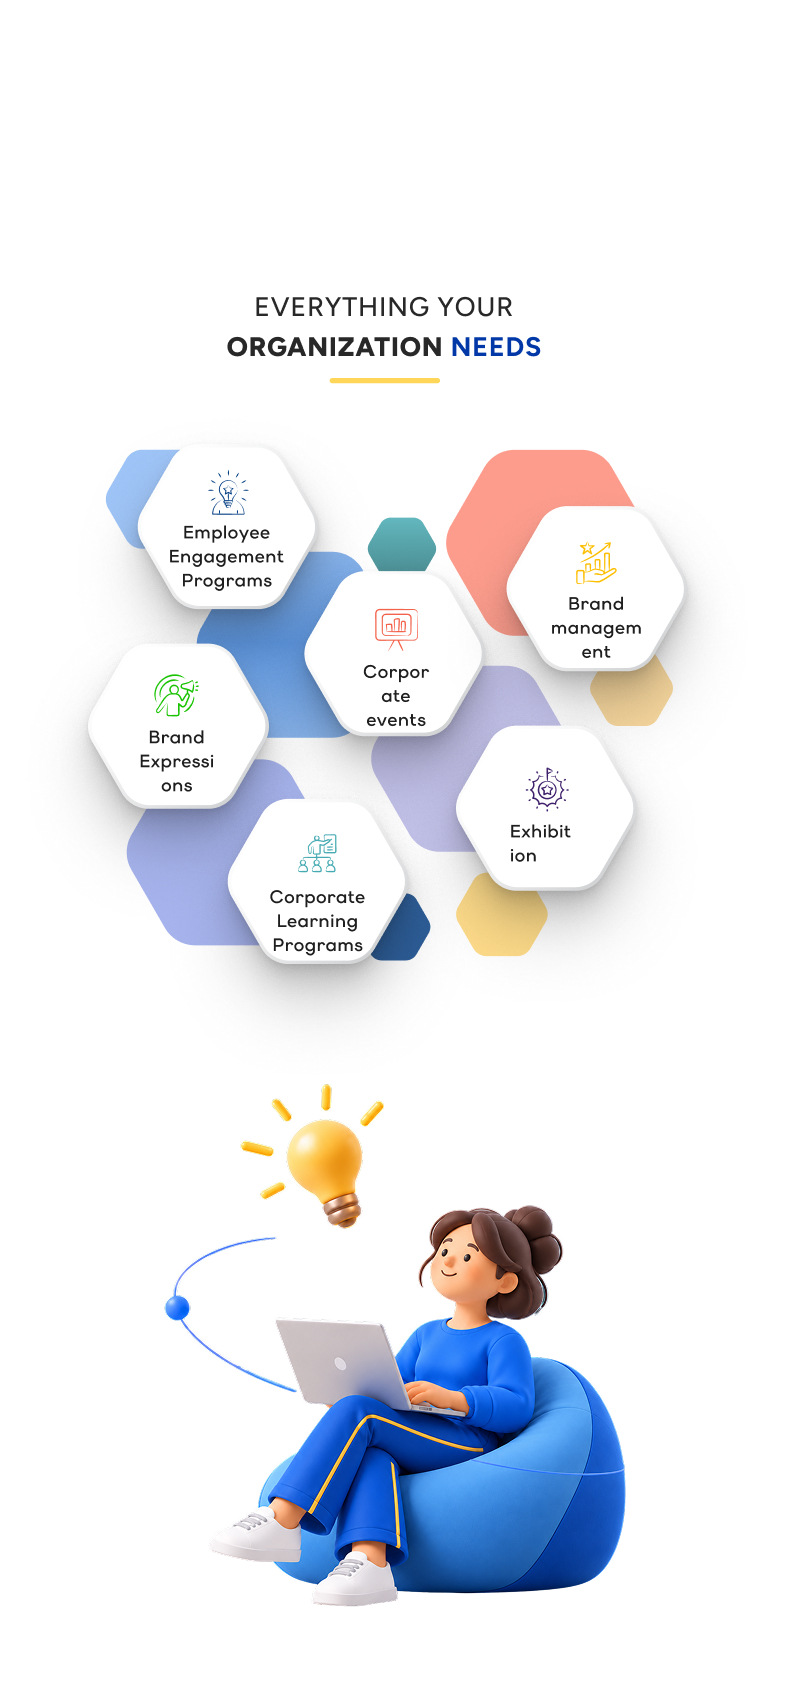
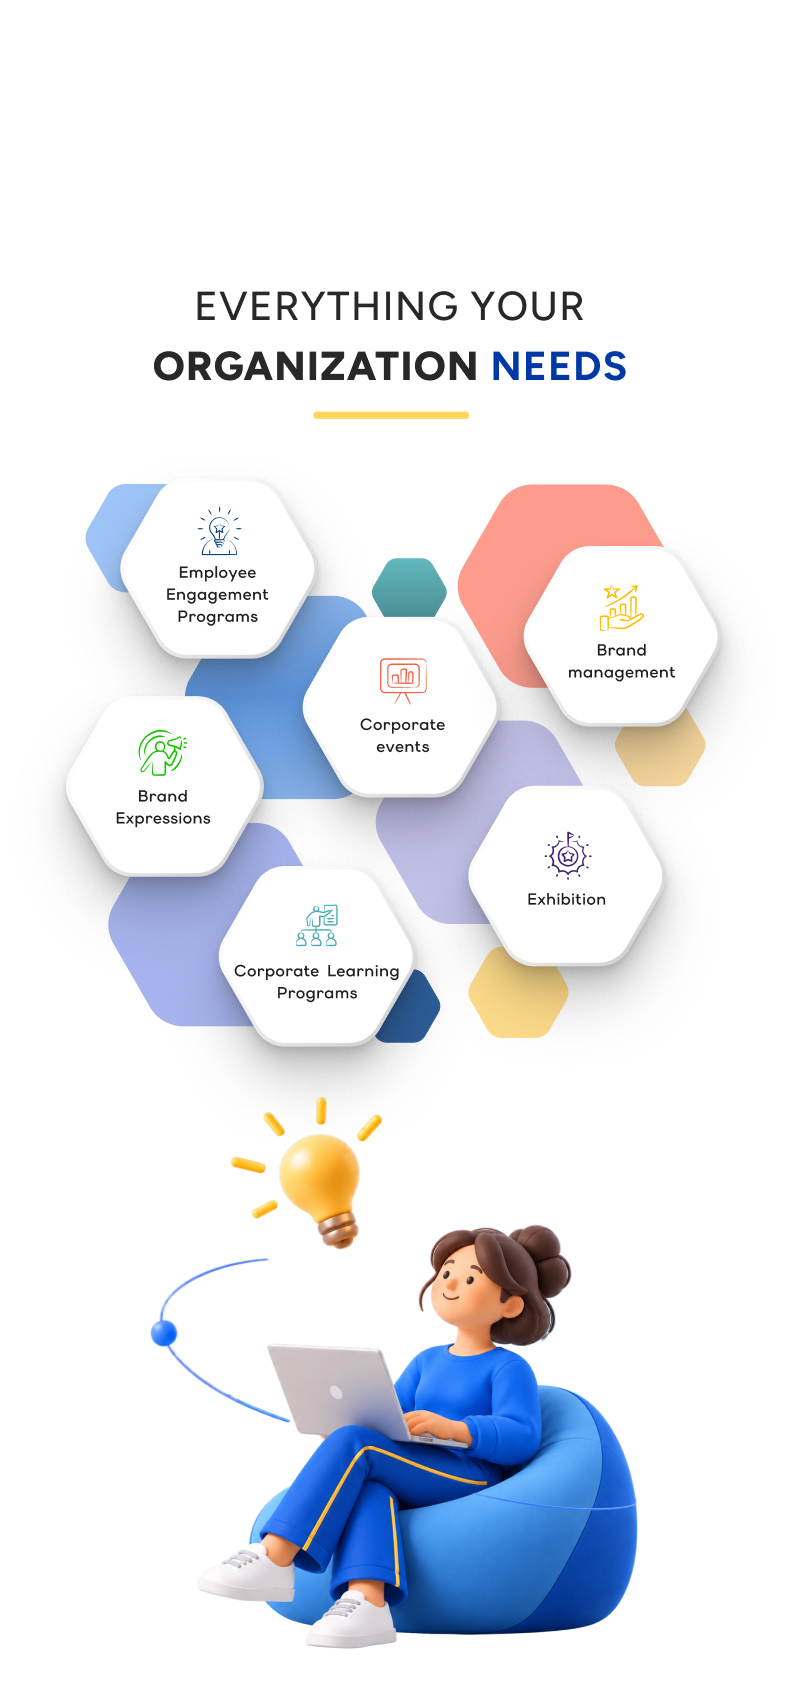
update video section

Changed region(s): [[0.0611, 0.1555, 0.916, 0.7465], [0.2748, 0.6843, 0.8244, 0.9953], [0.1832, 0.7465, 0.2443, 0.8087]]

diff --git a/components/layout/HeroVideo.tsx b/components/layout/HeroVideo.tsx
@@ -1,75 +1,114 @@
 "use client";
 
-import { useEffect, useLayoutEffect, useRef, useState } from "react";
+import {
+  useEffect,
+  useLayoutEffect,
+  useRef,
+  useState,
+  type ReactNode,
+} from "react";
 import { AnimatePresence, motion } from "framer-motion";
-import { type ReactNode } from "react"; // add to your imports
+
 type HeroVideoProps = {
   desktopVideo: string;
   mobileVideo?: string;
   poster?: string;
-   mobilePoster?: string; // NEW
-    header?: ReactNode;     
-  onShow?: () => void;  
+  mobilePoster?: string;
+  header?: ReactNode; // header shown over the video
+  onShow?: () => void; // tells Home that video mode started
 };
 
 export default function HeroVideo({
   desktopVideo,
   mobileVideo,
   poster,
-   mobilePoster,
-    header,
+  mobilePoster,
+  header,
   onShow,
 }: HeroVideoProps) {
   const sectionRef = useRef<HTMLElement>(null);
   const videoRef = useRef<HTMLVideoElement>(null);
   const lastY = useRef(0);
-  
+  const insertedAtTop = useRef(false);
+
   const [showVideo, setShowVideo] = useState(false); // false on first load
   const [playing, setPlaying] = useState(false);
-  const [isMobile, setIsMobile] = useState(false);
-  /* NEW: detect mobile and preload the thumbnail so it shows instantly */
   const [posterVisible, setPosterVisible] = useState(true);
-+/* Pause and rewind when the video leaves the screen */
-useEffect(() => {
-  const el = sectionRef.current;
-  if (!showVideo || !el) return;
-  const observer = new IntersectionObserver(([entry]) => {
-    if (!entry.isIntersecting && videoRef.current) {
-      videoRef.current.pause();
-      videoRef.current.currentTime = 0;
-      setPosterVisible(true); // ADD THIS LINE
-    }
-  });
-  observer.observe(el);
-  return () => observer.disconnect();
-}, [showVideo]);
-  useEffect(() => {
-    const mobile = window.matchMedia("(max-width: 767px)").matches;
-    setIsMobile(mobile);
 
-    const img = new window.Image();
-    img.src = mobile ? mobilePoster ?? poster ?? "" : poster ?? "";
+  /* Preload thumbnails so they show instantly */
+  useEffect(() => {
+    [poster, mobilePoster].forEach((src) => {
+      if (!src) return;
+      const img = new window.Image();
+      img.src = src;
+    });
   }, [poster, mobilePoster]);
-  /* Once the user has scrolled one screen down, add the video at the top */
+
+  /* Add the video when:
+     (a) user scrolled one screen down, or
+     (b) user is at the top and scrolls up (right after the intro) */
   useEffect(() => {
     if (showVideo) return;
+
+    // the intro overlay locks body scroll while it is visible
+    const introActive = () => document.body.style.overflow === "hidden";
+
+    const reveal = (atTop: boolean) => {
+      insertedAtTop.current = atTop;
+      lastY.current = window.scrollY;
+      setShowVideo(true);
+    };
+
     const onScroll = () => {
       lastY.current = window.scrollY;
-      if (window.scrollY > window.innerHeight) setShowVideo(true);
+      if (window.scrollY > window.innerHeight) reveal(false);
     };
+
+    const onWheel = (e: WheelEvent) => {
+      if (introActive()) return;
+      if (window.scrollY <= 0 && e.deltaY < -4) reveal(true);
+    };
+
+    let touchY = 0;
+    const onTouchStart = (e: TouchEvent) => {
+      touchY = e.touches[0].clientY;
+    };
+    const onTouchMove = (e: TouchEvent) => {
+      if (introActive()) return;
+      if (window.scrollY <= 0 && e.touches[0].clientY - touchY > 20)
+        reveal(true);
+    };
+
+    const onKey = (e: KeyboardEvent) => {
+      if (introActive()) return;
+      if (window.scrollY <= 0 && ["ArrowUp", "PageUp"].includes(e.key))
+        reveal(true);
+    };
+
     window.addEventListener("scroll", onScroll, { passive: true });
-    return () => window.removeEventListener("scroll", onScroll);
+    window.addEventListener("wheel", onWheel, { passive: true });
+    window.addEventListener("touchstart", onTouchStart, { passive: true });
+    window.addEventListener("touchmove", onTouchMove, { passive: true });
+    window.addEventListener("keydown", onKey);
+    return () => {
+      window.removeEventListener("scroll", onScroll);
+      window.removeEventListener("wheel", onWheel);
+      window.removeEventListener("touchstart", onTouchStart);
+      window.removeEventListener("touchmove", onTouchMove);
+      window.removeEventListener("keydown", onKey);
+    };
   }, [showVideo]);
 
   /* Keep the user's view in place when the video is inserted above them */
   useLayoutEffect(() => {
     if (!showVideo || !sectionRef.current) return;
+    if (insertedAtTop.current) return; // added at top: user should see the video
     const h = sectionRef.current.offsetHeight;
     const alreadyShifted = window.scrollY - lastY.current; // some browsers auto-adjust
     window.scrollBy({ top: h - alreadyShifted, behavior: "instant" });
   }, [showVideo]);
 
-  /* Pause and rewind when the video leaves the screen */
+  /* Pause, rewind and show the thumbnail when the video leaves the screen */
   useEffect(() => {
     const el = sectionRef.current;
     if (!showVideo || !el) return;
@@ -77,70 +116,81 @@ useEffect(() => {
       if (!entry.isIntersecting && videoRef.current) {
         videoRef.current.pause();
         videoRef.current.currentTime = 0;
+        setPosterVisible(true);
       }
     });
     observer.observe(el);
     return () => observer.disconnect();
   }, [showVideo]);
 
+  /* Tell Home once, when video mode starts */
+  const onShowRef = useRef(onShow);
+  useEffect(() => {
+    onShowRef.current = onShow;
+  });
 
-const onShowRef = useRef(onShow);
-useEffect(() => {
-  onShowRef.current = onShow;
-});
-
-useEffect(() => {
-  if (showVideo) onShowRef.current?.();
-}, [showVideo]);
+  useEffect(() => {
+    if (showVideo) onShowRef.current?.();
+  }, [showVideo]);
 
   if (!showVideo) return null;
 
   return (
-    <section
-      ref={sectionRef}
-      className="relative h-[100vh] w-full overflow-hidden  bg-black"
-    >
-<video
-  ref={videoRef}
-  playsInline
-  preload="metadata"
-  onPlay={() => setPlaying(true)}
-  onPlaying={() => setPosterVisible(false)}  // hide thumbnail when video really starts
-  onPause={() => setPlaying(false)}
-  onEnded={() => {
-    setPlaying(false);
-    setPosterVisible(true);                  // thumbnail comes back after end
-  }}
-  onClick={playing ? () => videoRef.current?.pause() : undefined}
-  className="absolute inset-0 h-full w-full object-cover"
->
-  {mobileVideo && (
-    <source src={mobileVideo} media="(max-width: 767px)" type="video/mp4" />
-  )}
-  <source src={desktopVideo} type="video/mp4" />
-</video>
+     <motion.section
+    ref={sectionRef}
+    initial={insertedAtTop.current ? { height: 0, opacity: 0 } : false}
+    animate={{ height: "100vh", opacity: 1 }}
+    transition={{ duration: 1, ease: [0.76, 0, 0.24, 1] }}
+    className="relative w-full overflow-hidden bg-black hero-video"
+  >
+   
+      <video
+        ref={videoRef}
+        playsInline
+        preload="metadata"
+        onPlay={() => setPlaying(true)}
+        onPlaying={() => setPosterVisible(false)} // hide thumbnail when video really starts
+        onPause={() => setPlaying(false)}
+        onEnded={() => {
+          setPlaying(false);
+          setPosterVisible(true); // thumbnail comes back after end
+        }}
+        onClick={playing ? () => videoRef.current?.pause() : undefined}
+        className="absolute inset-0 h-full w-full object-cover"
+      >
+        {mobileVideo && (
+          <source
+            src={mobileVideo}
+            media="(max-width: 767px)"
+            type="video/mp4"
+          />
+        )}
+        <source src={desktopVideo} type="video/mp4" />
+      </video>
 
-{/* THUMBNAIL (desktop + mobile) */}
-<picture>
-  {mobilePoster && (
-    <source media="(max-width: 767px)" srcSet={mobilePoster} />
-  )}
-  {/* eslint-disable-next-line @next/next/no-img-element */}
-  <img
-    src={poster}
-    alt=""
-    className={`pointer-events-none absolute inset-0 z-[5] h-full w-full object-cover transition-opacity duration-300 ${
-      posterVisible ? "opacity-100" : "opacity-0"
-    }`}
-  />
-</picture>
-       {/* NEW: header overlapping the video, top center */}
+      {/* THUMBNAIL (desktop + mobile) */}
+      <picture>
+        {mobilePoster && (
+          <source media="(max-width: 767px)" srcSet={mobilePoster} />
+        )}
+        {/* eslint-disable-next-line @next/next/no-img-element */}
+        <img
+          src={poster}
+          alt=""
+          className={`pointer-events-none absolute inset-0 z-[5] h-full w-full object-cover transition-opacity duration-300 ${
+            posterVisible ? "opacity-100" : "opacity-0"
+          }`}
+        />
+      </picture>
+
+      {/* Header overlapping the video, top center */}
       {header && (
-        <div className="absolute inset-x-0 top-[-12px] z-20 flex justify-center pt-2">
+        <div className="absolute hero-header inset-x-0 top-[-12px] z-20 flex justify-center pt-2">
           {header}
         </div>
       )}
 
+      {/* Play button */}
       <AnimatePresence>
         {!playing && (
           <motion.button
@@ -153,12 +203,12 @@ useEffect(() => {
             transition={{ duration: 0.3 }}
             whileHover={{ scale: 1.08 }}
             whileTap={{ scale: 0.95 }}
-            className="absolute left-1/2 top-1/2 z-10 flex h-10 w-10 -translate-x-1/2 -translate-y-1/2 items-center justify-center rounded-full bg-black/90 shadow-lg backdrop-blur md:h-12 md:w-12"
+            className="absolute left-1/2 cursor-pointer top-1/2 z-10 flex h-10 w-10 -translate-x-1/2 -translate-y-1/2 items-center justify-center rounded-full bg-black/90 shadow-lg backdrop-blur md:h-12 md:w-12"
           >
             <svg
               xmlns="http://www.w3.org/2000/svg"
               viewBox="0 0 24 24"
-              className="ml-1 h-8 w-8 md:h-8 md:w-8"
+              className=" h-8 w-8"
               fill="white"
             >
               <path d="M8 5v14l11-7z" />
@@ -166,6 +216,6 @@ useEffect(() => {
           </motion.button>
         )}
       </AnimatePresence>
-    </section>
+    </motion.section>
   );
 }

diff --git a/src/app/globals.css b/src/app/globals.css
@@ -901,3 +901,7 @@ Arrow box icon
   align-items: center;
   text-align: center;
 }
+
+.hero-header div{
+ box-shadow: none !important;
+}
